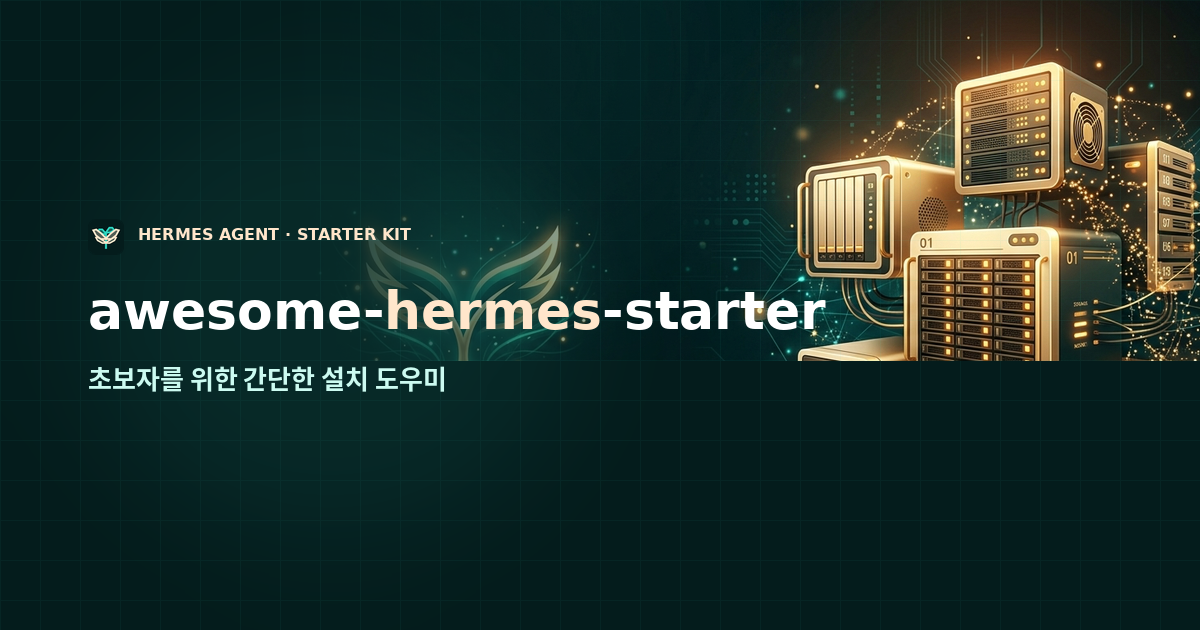
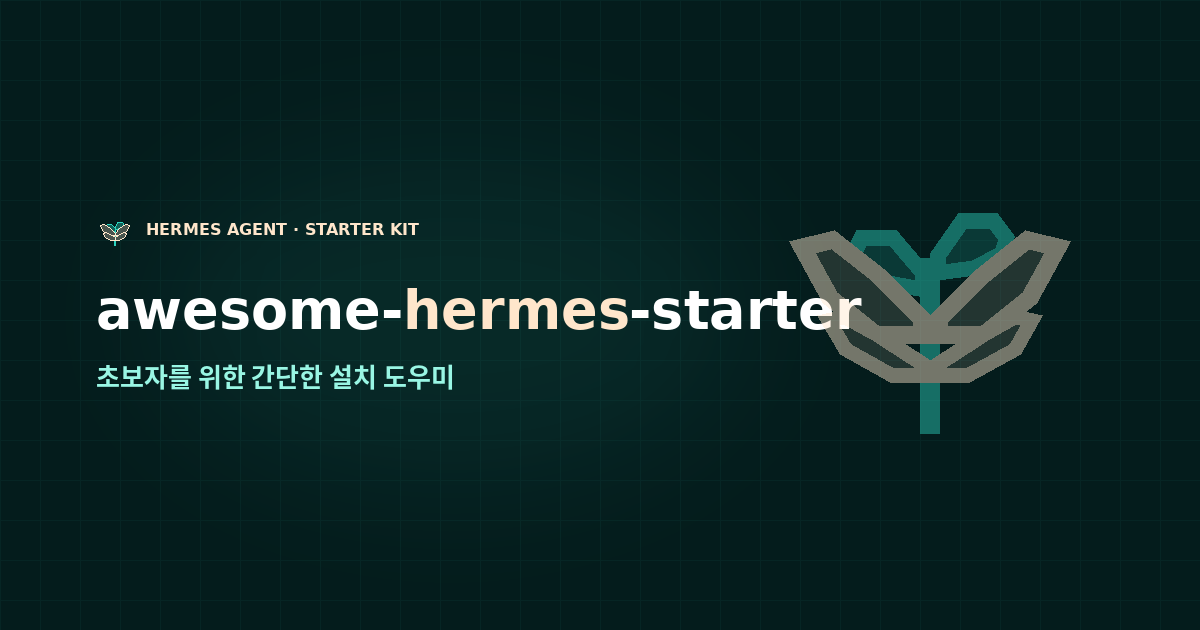
GitHub Pages 데모 — 설치 없이 설정 화면을 눌러본다
스크린샷은 금방 낡고, 이 저장소가 파는 건 "화면에서 끝난다" 는 것이라 정지
이미지로는 설명이 안 된다. 같은 React 앱을 VITE_DEMO=1 로 빌드해 Pages 에
올린다 — 컴포넌트도 문구도 하나뿐이라 데모가 실물과 어긋날 수 없다.

demo.js 가 서버 대신 답한다. 모델 목록은 2026-08-27 OpenRouter 무료 티어
실제 스냅샷이고, 어차피 그 목록이 변한다는 게 모델 단계가 말하는 요지다.

상단 경고 배너는 일부러 눈에 띄게 뒀다. 이 화면은 실제 설치와 구분이 안 되고,
절대 일어나면 안 되는 일이 github.io 페이지에 진짜 API 키를 붙여넣는 것이다.

Changed region(s): [[0.0617, 0.0, 1.0, 0.6937]]

diff --git a/setup/web/src/demo.js b/setup/web/src/demo.js
@@ -1,0 +1,226 @@
+// Demo mode — the real UI, wired to canned answers instead of a server.
+//
+// This exists so the GitHub Pages site is the actual screen rather than a
+// screenshot of it: you click through the same five steps, in the same layout,
+// with the same copy. Nothing is stored and nothing leaves the browser.
+//
+// The model list is a real snapshot of OpenRouter's free tier, taken on
+// 2026-08-27. It will drift, which is the point the model step makes anyway.
+
+const wait = (ms) => new Promise((r) => setTimeout(r, ms))
+
+const MODELS = [
+  {
+    id: 'thinkingmachines/inkling-small:free',
+    name: 'Thinking Machines: Inkling Small (free)',
+    context_length: 1048576,
+    supports_tools: true,
+  },
+  {
+    id: 'thinkingmachines/inkling:free',
+    name: 'Thinking Machines: Inkling (free)',
+    context_length: 1048576,
+    supports_tools: true,
+  },
+  {
+    id: 'minimax/minimax-m3:free',
+    name: 'MiniMax: MiniMax M3 (free)',
+    context_length: 1048576,
+    supports_tools: true,
+  },
+  {
+    id: 'nvidia/nemotron-3.5-lightning:free',
+    name: 'NVIDIA: Nemotron 3.5 Lightning (free)',
+    context_length: 1000000,
+    supports_tools: true,
+  },
+  {
+    id: 'qwen/qwen3-235b-a22b:free',
+    name: 'Qwen: Qwen3 235B A22B (free)',
+    context_length: 262144,
+    supports_tools: true,
+  },
+  {
+    id: 'moonshotai/kimi-k2:free',
+    name: 'MoonshotAI: Kimi K2 (free)',
+    context_length: 131072,
+    supports_tools: true,
+  },
+  {
+    id: 'google/gemma-3-27b-it:free',
+    name: 'Google: Gemma 3 27B (free)',
+    context_length: 96000,
+    supports_tools: false,
+  },
+]
+
+const PRESETS = [
+  {
+    name: 'filesystem',
+    recommended: true,
+    label_ko: '파일',
+    label_en: 'Files',
+    desc_ko: './files 안의 파일을 읽고 쓴다. 나스 공유를 붙이는 자리.',
+    desc_en: 'Read and write files under ./files — where you mount a NAS share.',
+  },
+  {
+    name: 'fetch',
+    recommended: true,
+    label_ko: '웹 읽기',
+    label_en: 'Fetch',
+    desc_ko: 'URL 을 열어 본문을 읽는다. 무료 모델은 검색 능력이 없어 체감이 크다.',
+    desc_en: 'Open a URL and read the page. Free models have no browsing of their own.',
+  },
+  {
+    name: 'search',
+    recommended: true,
+    label_ko: '웹 검색',
+    label_en: 'Web search',
+    desc_ko: 'DuckDuckGo 검색. 계정도 키도 필요 없다.',
+    desc_en: 'DuckDuckGo search. No account, no key.',
+  },
+  {
+    name: 'docs',
+    recommended: false,
+    label_ko: '라이브러리 문서',
+    label_en: 'Library docs',
+    desc_ko: 'Context7 — 라이브러리 최신 문서를 버전까지 맞춰 가져온다.',
+    desc_en: 'Context7 — version-accurate docs for libraries.',
+  },
+  {
+    name: 'time',
+    recommended: false,
+    label_ko: '시간·시간대',
+    label_en: 'Time',
+    desc_ko: '현재 시각과 시간대 변환. 예약·알림을 쓸 거면 넣는다.',
+    desc_en: 'Current time and timezone conversion. Needed for schedules.',
+  },
+]
+
+// Everything the demo pretends to have configured. Mutated by the same calls
+// the real app makes, so the steps tick over exactly as they would.
+const state = {
+  authed: false,
+  key_set: false,
+  key_hint: '',
+  model: '',
+  provider: '',
+  fallbacks: [],
+  telegram_token_set: false,
+  telegram_allowed: [],
+  telegram_bot: '',
+  installed: new Set(),
+}
+
+const CHAT = {
+  ko: [
+    '안녕하세요. 나스에서 도는 헤르메스입니다. 파일 정리, 웹 검색, 예약 작업 같은 걸 시키시면 됩니다.',
+    '데모 화면이라 실제로는 아무것도 실행하지 않습니다. 직접 설치하시면 이 자리에서 진짜로 답합니다.',
+    '설정은 다 끝났습니다. 이제 헤르메스 본판 대시보드로 넘어가셔도 됩니다.',
+  ],
+  en: [
+    "Hello — I'm Hermes, running on your NAS. Ask me to sort files, search the web, or run something on a schedule.",
+    'This is a demo, so nothing actually runs. Install it and this is where the real answers appear.',
+    'Setup is done. You can move on to the Hermes dashboard whenever you like.',
+  ],
+}
+let chatTurn = 0
+
+function lang() {
+  return (navigator.language || '').startsWith('ko') ? 'ko' : 'en'
+}
+
+export async function demoApi(path, options = {}) {
+  const body = options.body ? JSON.parse(options.body) : {}
+  await wait(320) // enough that the busy states are visible, not enough to annoy
+
+  switch (true) {
+    case path === '/session':
+      return { authenticated: state.authed }
+
+    case path === '/login':
+      // Any password works here. Saying so is friendlier than a rejection on a
+      // page that has nothing to protect.
+      state.authed = true
+      return { ok: true, username: body.username || 'admin' }
+
+    case path === '/logout':
+      state.authed = false
+      return { ok: true }
+
+    case path === '/status':
+      return {
+        key_set: state.key_set,
+        key_hint: state.key_hint,
+        model: state.model,
+        provider: state.provider,
+        fallbacks: state.fallbacks,
+        telegram_token_set: state.telegram_token_set,
+        telegram_allowed: state.telegram_allowed,
+        telegram_bot: state.telegram_bot,
+        data_dir: '/opt/data',
+        dashboard_url: 'https://github.com/jshsakura/awesome-hermes-starter',
+      }
+
+    case path === '/key':
+      state.key_set = true
+      state.key_hint = (body.key || 'demo').slice(-4)
+      state.provider = 'openrouter'
+      return { ok: true, is_free_tier: true }
+
+    case path === '/models':
+      return { models: MODELS, count: MODELS.length }
+
+    case path === '/model':
+      state.model = body.model
+      state.fallbacks = body.fallbacks || []
+      state.provider = 'openrouter'
+      return { ok: true }
+
+    case path === '/telegram/token':
+      state.telegram_token_set = true
+      state.telegram_bot = 'my_nas_bot'
+      return { ok: true, username: 'my_nas_bot', link: 'https://t.me/my_nas_bot' }
+
+    case path === '/telegram/chats':
+      return { chats: [{ id: '915733248', who: 'you', type: 'private' }] }
+
+    case path === '/telegram/allow':
+      state.telegram_allowed = body.ids || []
+      return { ok: true }
+
+    case path === '/telegram/test':
+      return { ok: true, sent: state.telegram_allowed }
+
+    case path === '/mcp':
+      return {
+        presets: PRESETS.map((p) => ({ ...p, installed: state.installed.has(p.name) })),
+        others: [],
+      }
+
+    case path === '/mcp/recommended':
+      PRESETS.filter((p) => p.recommended).forEach((p) => state.installed.add(p.name))
+      return { ok: true }
+
+    case path === '/mcp' || path.startsWith('/mcp'):
+      if (body.install) state.installed.add(body.name)
+      else state.installed.delete(body.name)
+      return { ok: true }
+
+    case path === '/chat/health':
+      return { ready: state.key_set && Boolean(state.model) }
+
+    case path === '/chat': {
+      const lines = CHAT[lang()]
+      const reply = lines[Math.min(chatTurn++, lines.length - 1)]
+      await wait(700)
+      return { reply, session_id: 'demo', model: state.model }
+    }
+
+    case path.startsWith('/gateway'):
+      return { ok: true, reachable: true, running: true }
+
+    default:
+      return { ok: true }
+  }
+}

diff --git a/setup/web/src/App.jsx b/setup/web/src/App.jsx
@@ -1,5 +1,9 @@
 import { useCallback, useEffect, useState } from 'react'
 import { api } from './api.js'
+
+// Demo builds get a standing banner. Without it the screen is indistinguishable
+// from a real install, and someone will paste a real API key into it.
+const DEMO = import.meta.env.VITE_DEMO === '1'
 import { STRINGS } from './i18n.js'
 import Chat from './Chat.jsx'
 import { STEP_ICONS, KeyIcon, ModelIcon, TelegramIcon, ToolsIcon, DoneIcon, LockIcon, Mark, FlagKR, FlagUS, ChatIcon, GearIcon, RefreshIcon, ExternalIcon } from './Icons.jsx'
@@ -30,6 +34,17 @@ function Callout({ label, kind = '', children }) {
     <div className={`callout ${kind}`}>
       <span className="clabel">{label}</span>
       {children}
+    </div>
+  )
+}
+
+function DemoBanner({ t }) {
+  return (
+    <div className="demo">
+      <span>{t.demoBanner}</span>
+      <a href="https://github.com/jshsakura/awesome-hermes-starter" target="_blank" rel="noreferrer">
+        {t.demoCta} <ExternalIcon />
+      </a>
     </div>
   )
 }
@@ -69,6 +84,7 @@ function Login({ t, lang, setLang, onIn }) {
 
   return (
     <div className="app narrow">
+      {DEMO && <DemoBanner t={t} />}
       <header>
         <div className="wordmark">
           <Mark />
@@ -195,6 +211,7 @@ export default function App() {
 
   return (
     <div className="app">
+      {DEMO && <DemoBanner t={t} />}
       <header>
         <div className="wordmark">
           <Mark />

diff --git a/setup/web/src/styles.css b/setup/web/src/styles.css
@@ -591,3 +591,17 @@ a svg { width: 12px; height: 12px; vertical-align: -1px; margin-left: 3px; }
   width: 7px; height: 1px; background: var(--line-strong);
 }
 .glossary b { color: var(--fg); font-weight: 600; }
+
+/* Demo banner. Deliberately loud: this screen is otherwise identical to a real
+   install, and the one thing that must never happen is a stranger pasting a
+   live API key into a page on github.io. */
+.demo {
+  display: flex; align-items: center; justify-content: space-between;
+  gap: 16px; flex-wrap: wrap;
+  border: 1px solid var(--warn);
+  border-left: 3px solid var(--warn);
+  color: var(--warn);
+  padding: 11px 15px; margin-bottom: 26px; font-size: 13px;
+}
+.demo a { color: var(--warn); white-space: nowrap; }
+@media (max-width: 620px) { .demo { margin-bottom: 18px; } }

diff --git a/setup/web/src/i18n.js b/setup/web/src/i18n.js
@@ -5,6 +5,8 @@
 export const STRINGS = {
   ko: {
     appName: 'Hermes Starter',
+    demoBanner: '데모 화면입니다. 아무것도 저장되지 않고, 실제 에이전트도 돌지 않습니다.',
+    demoCta: '직접 설치하기',
     title: 'Hermes 시작하기',
     subtitle: '네 단계만 거치면 바로 쓸 수 있습니다.',
     langLabel: 'English',
@@ -204,6 +206,8 @@ export const STRINGS = {
 
   en: {
     appName: 'Hermes Starter',
+    demoBanner: 'This is a demo. Nothing is saved, and no agent is running behind it.',
+    demoCta: 'Install it yourself',
     title: 'Get Hermes talking',
     subtitle: 'Four steps to a working agent. No credit card.',
     langLabel: '한국어',

diff --git a/setup/web/src/api.js b/setup/web/src/api.js
@@ -1,7 +1,15 @@
+import { demoApi } from './demo.js'
+
+// The GitHub Pages build has no server behind it, so requests go to canned
+// answers instead. Same components, same copy — only the transport differs.
+const DEMO = import.meta.env.VITE_DEMO === '1'
+
 // One request helper for the whole app. The session cookie rides along on its
 // own; this only has to carry JSON, surface the server's error text instead of
 // a bare status code, and flag a 401 so the app can fall back to the login form.
 export async function api(path, options = {}) {
+  if (DEMO) return demoApi(path, options)
+
   const res = await fetch(`/api${path}`, {
     headers: { 'Content-Type': 'application/json' },
     ...options,

diff --git a/setup/web/vite.config.js b/setup/web/vite.config.js
@@ -1,9 +1,14 @@
 import { defineConfig } from 'vite'
 import react from '@vitejs/plugin-react'
 
+// The demo build is served from a project page, so assets need the repo name
+// as a base. The container build is served from the root and must not have it.
+const demo = process.env.VITE_DEMO === '1'
+
 export default defineConfig({
   plugins: [react()],
-  build: { outDir: 'dist', emptyOutDir: true },
+  base: demo ? '/awesome-hermes-starter/' : '/',
+  build: { outDir: demo ? 'demo-dist' : 'dist', emptyOutDir: true },
   // During `npm run dev` the API lives in the container; proxy so the dev
   // server and the built bundle behave identically.
   server: {

diff --git a/README.md b/README.md
@@ -14,6 +14,9 @@ HERMES_UID=$(id -u) HERMES_GID=$(id -g) docker compose up -d
 # → http://<서버주소>:9120  ← 여기서 다섯 단계
 ```
 
+**[▶ 데모에서 직접 눌러보기](https://jshsakura.github.io/awesome-hermes-starter/)** — 설치 없이 설정 화면을 그대로 클릭해 볼 수 있다.
+같은 코드로 만든 화면이고, 서버 대신 정해둔 답을 쓴다.
+
 **나스에 올리는 사람은 [기종별 복붙 설치 문서](docs/deploy.md)를 보면 된다** —
 일반 도커·포테이너와 Synology DSM 두 갈래로 적었다. 터미널이 필요 없다.
 

diff --git a/README.en.md b/README.en.md
@@ -14,6 +14,9 @@ HERMES_UID=$(id -u) HERMES_GID=$(id -g) docker compose up -d
 # → http://<your-server>:9120  ← five steps here
 ```
 
+**[▶ Try the demo](https://jshsakura.github.io/awesome-hermes-starter/)** — click through the real setup screen without installing
+anything. Same code, canned answers instead of a server.
+
 **Installing on a NAS? See the [per-box copy-paste guide](docs/deploy.en.md)** —
 plain Docker · Portainer and Synology DSM. No terminal.
 
